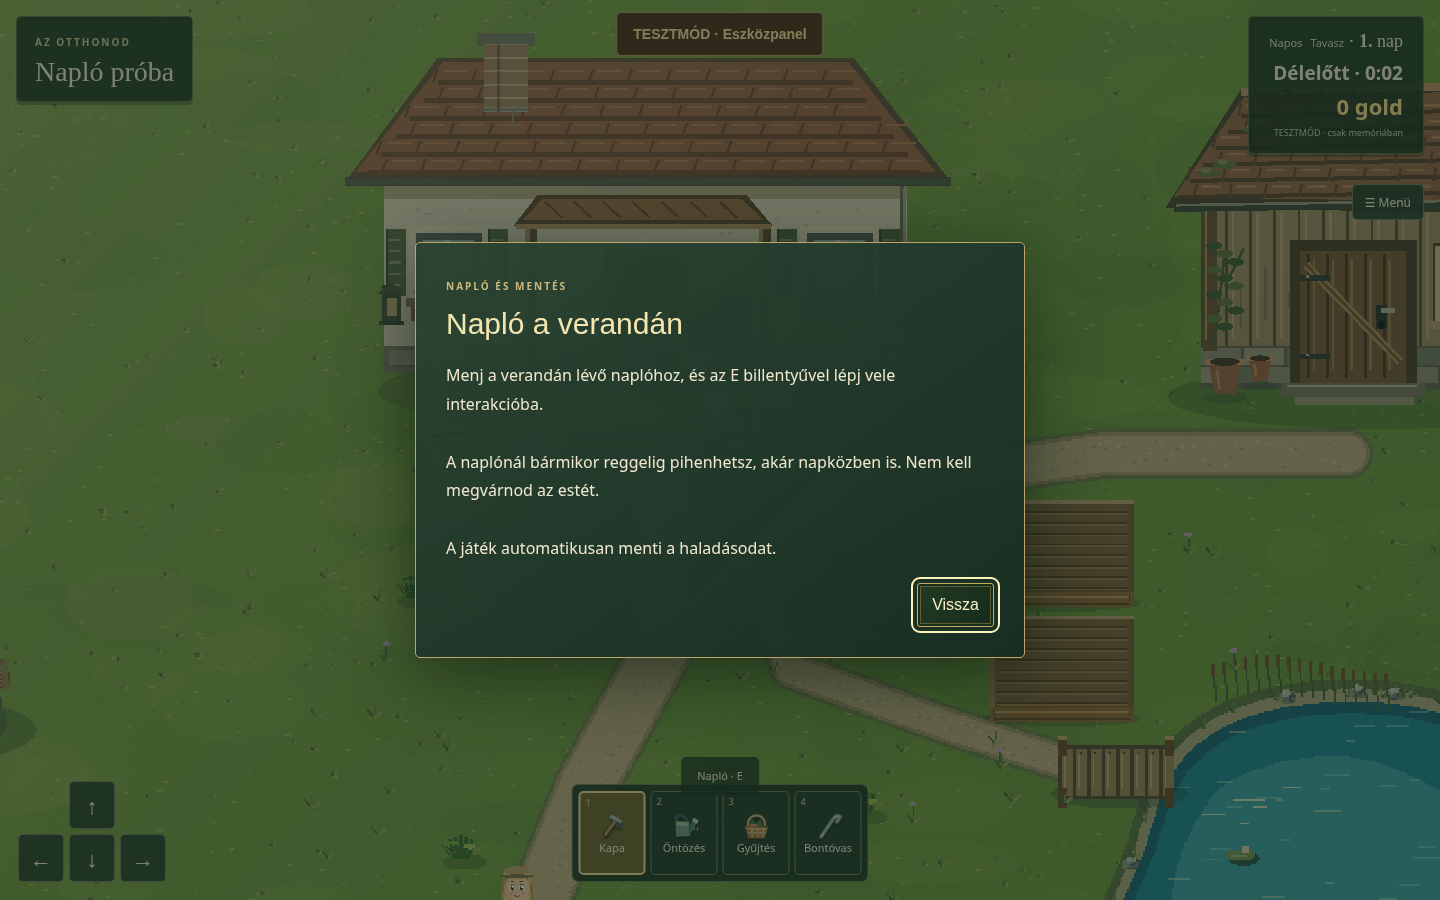
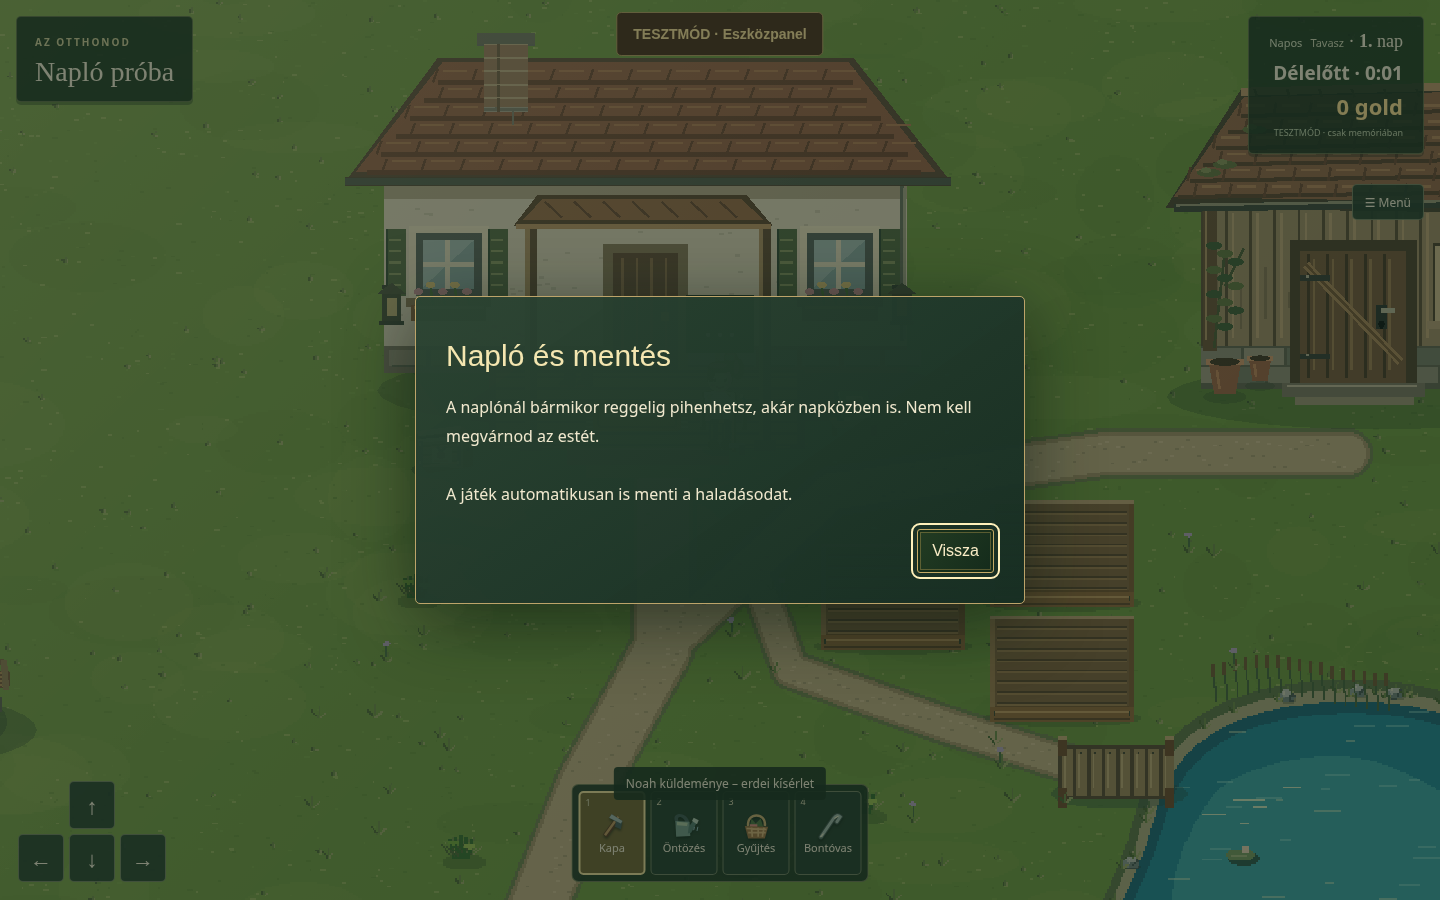
Refine onboarding help and protect veranda from tilling

diff --git a/src/main.ts b/src/main.ts
@@ -395,7 +395,7 @@ class Farm extends Phaser.Scene {
   if(!this.ready||!journalHelpPending(this.story,this.clock.day))return;
   if(dialogue.open||this.transitioning){this.journalHelpRequested=true;return;}
   this.journalHelpRequested=false;
-  showDialogue('Napló a verandán',JOURNAL_HELP_LINES.join('\n\n'),JOURNAL_HELP_TITLE.toLocaleUpperCase('hu'));
+  showDialogue(JOURNAL_HELP_TITLE,JOURNAL_HELP_LINES.slice(1).join('\n\n'),'');
   dialogue.dataset.presentation='journal-help';
   dialogue.addEventListener('close',()=>{if(dialogue.dataset.presentation==='journal-help')this.acknowledgeJournalHelp();},{once:true});
  }
@@ -783,9 +783,9 @@ class Farm extends Phaser.Scene {
    if(group==='packed')addAction(card,'Elhelyezem',()=>{dialogue.close();this.selectTool('chest');});grid.append(card);
   }
   for(let i=used;i<16;i++){const slot=document.createElement('div');slot.className='backpack-slot empty';slot.setAttribute('aria-label','Szabad rekesz');grid.append(slot);}
-  const tool=(name:string,icon:Node,action?:()=>void,count?:number)=>{const card=document.createElement('div');card.className='carried-tool';const label=document.createElement('span');label.textContent=name;card.append(icon,label);if(count){const amount=document.createElement('strong');amount.textContent=String(count);card.append(amount);}if(action){card.tabIndex=0;card.setAttribute('role','button');card.onclick=()=>{dialogue.close();action();};card.onkeydown=e=>{if(e.key==='Enter'||e.code==='Space'){e.preventDefault();e.stopPropagation();card.click();}};}free.append(card);};
+  const tool=(name:string,icon:Node,action?:()=>void,count?:number)=>{const card=document.createElement('div');card.className='carried-tool';const label=document.createElement('span');label.textContent=name;card.append(icon,label);if(count){const amount=document.createElement('strong');amount.textContent=String(count);card.append(amount);}if(action){card.tabIndex=0;card.setAttribute('role','button');card.onclick=()=>{dialogue.close();action();};card.onkeydown=e=>{if(e.key==='Enter'||e.code==='Space'){e.preventDefault();e.stopPropagation();card.click();}};}free.append(card);return card;};
   for(const [id,name]of [['hoe','Kapa'],['water','Öntözés'],['harvest','Gyűjtés'],['crowbar','Bontóvas']] as const)tool(name,itemIcon(id==='harvest'?'harvest':id),()=>this.selectTool(id));
-  if(this.travel.forest?.stick)tool('Túrabot',itemIcon('walkingStick'),()=>this.selectTool('stick'));if(this.travel.forest?.sample)tool('Fészekminta',itemIcon('nestSample'));if(this.travel.research.key)tool(workshopText('Melléképület kulcsa',workshopEntered(this.travel.research)),itemIcon('workshopKey'));if(this.travel.research.seeds)tool('Vadvirágmagok',this.wildflowerIcon(),()=>this.selectTool('wildflower'),this.travel.research.seeds);
+  if(this.travel.forest?.stick)tool('Túrabot',itemIcon('walkingStick'),()=>this.selectTool('stick'));if(this.travel.forest?.sample)tool('Fészekminta',itemIcon('nestSample'));if(this.travel.research.key)tool(workshopText('Melléképület kulcsa',workshopEntered(this.travel.research)),itemIcon('workshopKey'));if(this.travel.research.seeds){const card=tool('Vadvirágmagok',this.wildflowerIcon(),()=>this.selectTool('wildflower'),this.travel.research.seeds);card.classList.add('wildflower-attention');}
  }
  private openInventory(tab:'items'|'people'|'skills'|'goals'|'blueprints'='items'){
   if(!this.ready||this.transitioning||this.fishThrowPlaying||this.collapseRemaining>0)return;
@@ -1194,7 +1194,7 @@ class Farm extends Phaser.Scene {
  }
  private async receiveFlowers(){
   if(!this.canInteract()||this.researchNearby()!=='leo-visit')return;const research=startResearch(this.travel.research,this.clock.day);if(!research)return;
-  if(await this.commitResearch(research)){this.travel.metLeo=true;await this.persist();this.leoVisitor?.destroy();this.leoVisitor=null;this.showArrival('nursery','ÜDV A SZOMSZÉDBAN','Szia, Leo vagyok, én vezetem a falusi faiskolát.\n\nTavaly ilyenkor sok szarvas faliméh járt a csemeték virágaira. Idén eddig alig láttam belőlük. Nálad megfordultak?\n\nHoztam hat tasak vadvirágmagot. Ültesd el őket, és nézzük meg, kik látogatják a virágokat! A szarvas faliméh sötét fejű, rozsdabarna potrohú, tavasszal a gyümölcsfák fontos beporzója.','6 vadvirágmag a készletedbe került.');}
+  if(await this.commitResearch(research)){this.travel.metLeo=true;await this.persist();this.leoVisitor?.destroy();this.leoVisitor=null;this.showArrival('nursery','ÜDV A SZOMSZÉDBAN','Szia, Leo vagyok, én vezetem a falusi faiskolát.\n\nTavaly ilyenkor sok szarvas faliméh járt a csemeték virágaira. Idén eddig alig láttam belőlük. Nálad megfordultak?\n\nHoztam hat tasak vadvirágmagot. Ültesd el őket, és nézzük meg, kik látogatják a virágokat! A szarvas faliméh sötét fejű, rozsdabarna potrohú, tavasszal a gyümölcsfák fontos beporzója.','6 vadvirágmag a készletedbe került. Kapálás → Ültetés → Öntözés.');}
  }
  private async observeResearchBee(){
   if(!this.canInteract())return;const next=observeBee(this.travel.research,this.clock.day,this.clock.elapsed,this.actor,seasonDay(calendarDay(this.clock.day,this.farmName)));if(!next)return;

diff --git a/src/dialogue-theme.css b/src/dialogue-theme.css
@@ -92,3 +92,10 @@
 @media(max-width:520px){#app #dialogue[data-presentation="arrival"] form{grid-template-columns:64px minmax(0,1fr);column-gap:14px}#app #dialogue[data-presentation="arrival"] #speaker{grid-row:1 / 3}#app #dialogue[data-presentation="arrival"] #dialogue-title{font-size:20px}#app #dialogue[data-presentation="arrival"] :is(#dialogue-text,#dialogue-note){grid-column:1 / 3;margin-left:0}#app #dialogue[data-presentation="arrival"] #dialogue-text:before{left:15px;top:-12px;border-right:13px solid transparent;border-left:0;border-bottom:14px solid #f0e5c8}}
 
 #app #dialogue[data-presentation="arrival"] :is(#dialogue-label,#dialogue-title)[hidden]{display:none}
+
+/* The journal's fixed-centre gold pulse also points to unplanted wildflower seeds. */
+.wildflower-attention .research-icon{position:relative;overflow:visible;isolation:isolate}
+.wildflower-attention .research-icon::after{content:"";position:absolute;pointer-events:none;left:50%;top:50%;width:42px;height:42px;border:2px solid #ffe6a0;border-radius:50%;background:#ffdc830c;box-shadow:0 0 0 4px #efc36a40;transform:translate(-50%,-50%) scale(1);animation:wildflower-attention-pulse 3.1416s ease-in-out infinite}
+@keyframes wildflower-attention-pulse{50%{transform:translate(-50%,-50%) scale(1.25);background:#ffdc8310;border-color:#ffe6a0;box-shadow:0 0 0 5px #efc36a48}}
+@media(prefers-reduced-motion:reduce){.wildflower-attention .research-icon::after{animation:none}}
+.wildflower-attention .research-icon{display:inline-flex;align-items:center;justify-content:center;width:42px;height:42px;padding:0;font-size:30px;box-sizing:border-box}

diff --git a/src/gardening.test.ts b/src/gardening.test.ts
@@ -25,6 +25,10 @@ describe('gardening actions',()=>{
  it('protects paths, pond, house and bed frames',()=>{
   for(const [x,y] of [[250,260],[638,464],[225,180],[337,270]])expect(cultivable(targetTile(x,y))).toBe(false);
  });
+ it('rejects tilling every tile overlapping the veranda or its steps',()=>{
+  for(const x of [144,168,192,216,240,264,288,312])for(const y of [168,192]){const t={x,y};expect(cultivable(t)).toBe(false);expect(work(createGarden(),'hoe',t,{x:x+12,y:y+12}).ok).toBe(false);}
+  for(const x of [192,216,240,264])expect(cultivable({x,y:216})).toBe(false);
+ });
  it('keeps adjacent bed cells distinct and allows meadow soil',()=>{
   expect(tileKey(targetTile(360,286))).not.toBe(tileKey(targetTile(376,286)));
   expect(cultivable(targetTile(290,430))).toBe(true);

diff --git a/src/gardening.ts b/src/gardening.ts
@@ -40,6 +40,7 @@ function segmentDistance(x:number,y:number,a:readonly number[],b:readonly number
 }
 export function cultivable(tile:Tile):boolean{
  const {x,y}=tile;
+ if([farmLayout.porchBounds,farmLayout.porchSteps].some(b=>x<b.x+b.w&&x+TILE>b.x&&y<b.y+b.h&&y+TILE>b.y))return false;
  const bed=farmLayout.beds.find(b=>x>=b.x+4&&x+TILE<=b.x+4+3*TILE&&y>=b.y+2&&y+TILE<=b.y+2+2*TILE);
  if(bed)return true;
  // Free meadow can be cultivated throughout the farm, including beside beds.

diff --git a/src/layout.ts b/src/layout.ts
@@ -2,6 +2,8 @@ export const farmBounds={left:-400,top:-360,right:1200,bottom:600} as const;
 // Shared world-space layout: drawing, collision and proximity prompts use the same anchors.
 export const farmLayout = {
   southGate:{x:146,y:560,w:50,h:40},
+  porchBounds:{x:152.6,y:173.75,w:175.5,h:43.75},
+  porchSteps:{x:195.8,y:217.5,w:90.5,h:16.25},
   houseOffset:{x:0,y:-48},
   catalog:{x:346,y:190,w:18,h:12},
   journal:{x:272,y:186,w:18,h:13},

diff --git a/src/journal-help.ts b/src/journal-help.ts
@@ -2,5 +2,5 @@ export const JOURNAL_HELP_TITLE='Napló és mentés';
 export const JOURNAL_HELP_LINES=[
  'Menj a verandán lévő naplóhoz, és az E billentyűvel lépj vele interakcióba.',
  'A naplónál bármikor reggelig pihenhetsz, akár napközben is. Nem kell megvárnod az estét.',
- 'A játék automatikusan menti a haladásodat.'
+ 'A játék automatikusan is menti a haladásodat.'
 ] as const;

diff --git a/docs/jatekterv.md b/docs/jatekterv.md
@@ -970,3 +970,9 @@ Amikor Sam először közel sétál valóban sikertelen terméskötődést mutat
 - A korábbi első napi naplójelzésnél a „megnyitottnak” mentett állapot nem bizonyította, hogy a segítség olvasható is maradt. Az első napi régi mentésekben a javított segítség egyszer újra felkínálható; ezután külön, opcionális nyugtázási jelző őrzi a ténylegesen megnyitott és bezárt segítséget. A 18-as mentésformátum és a farm többi állapota változatlan.
 
 - A napló körjelzésének középpontja rögzített: a kör finoman összehúzódik és kitágul, oldalirányú vagy függőleges elmozdulás nélkül. A teljes látható kör kattintható. Első kattintáskor a segítség nyílik meg, nem a napló saját ablaka; csak a segítség nyugtázása után vált át a napló normál megnyitására.
+
+### Első napi segítségek finomítása
+- A napló egyszeri segítségablakában nincs felső címke; címe „Napló és mentés”. Szövege: „A naplónál bármikor reggelig pihenhetsz, akár napközben is. Nem kell megvárnod az estét.” és külön bekezdésben „A játék automatikusan is menti a haladásodat.” Az E-s útmutatás továbbra is olvasható az Irányításban.
+- Leo ajándékának külön útmutatása: „6 vadvirágmag a készletedbe került. Kapálás → Ültetés → Öntözés.”
+- A Készletben a vadvirágmagok ikonja körül a naplóéhoz igazodó, rögzített középpontú arany kör pulzál. Mindaddig megmarad, amíg van el nem ültetett vadvirágmag; csökkentett mozgás mellett álló jelzés.
+- A veranda teljes fapadlója és lépcsője járható, de nem művelhető terület. A teljes ültetőhely átfedését ellenőrizzük, nem csak a középpontját.

diff --git a/CHANGELOG.md b/CHANGELOG.md
@@ -84,3 +84,5 @@ Az első számozott, fejlesztés alatti kiadás. A korábbi fejlesztéseket ezze
 - A játékverzió megjelenik a Főmenüben és a Menüben. A korábbi farmmentések formátuma és tartalma megmarad.
 
 A következő kiadások változásai legfelül kapnak új bejegyzést.
+
+- Pontosított naplósegítség és Leo-féle ültetési útmutató; pulzáló jelzés a Készlet vadvirágmagjain. A verandán és lépcsőjén nem lehet kapálni.
